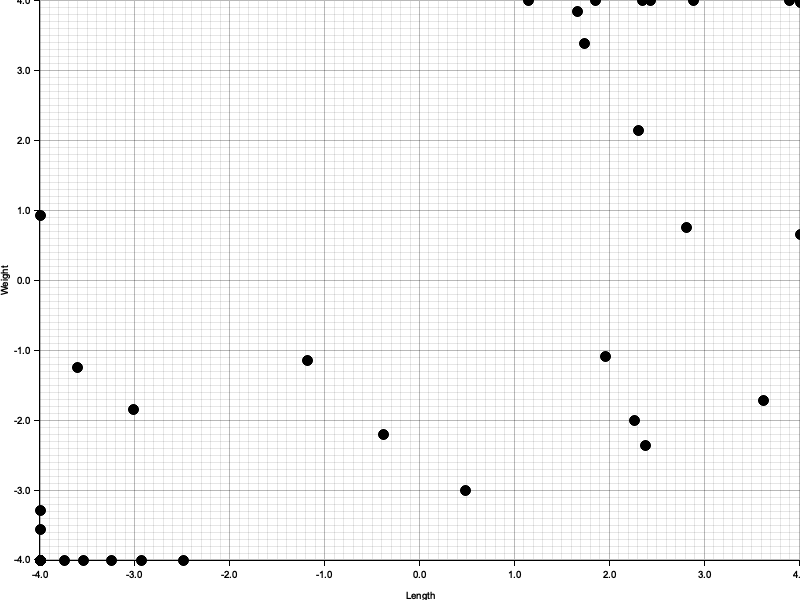
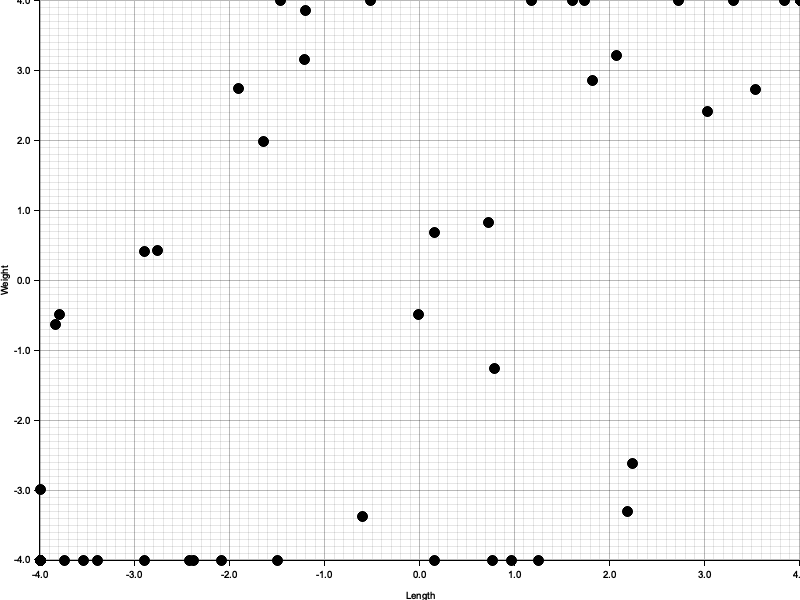
feat"test

diff --git a/src/linear_algebra/ch2.rs b/src/linear_algebra/ch2.rs
@@ -43,4 +43,45 @@ pub fn main() {
     )
     .unwrap();
 
+
+    // Create a drawing area
+    let root = BitMapBackend::new("ch2.png", (800, 600)).into_drawing_area();
+    root.fill(&WHITE).unwrap();
+    let mut chart = ChartBuilder::on(&root)
+    .x_label_area_size(40)
+    .y_label_area_size(40)
+    .build_cartesian_2d(-4.0..4.0, -4.0..4.0)
+    .unwrap();
+   chart
+        .configure_mesh()
+        .x_desc("Length")
+        .y_desc("Weight")
+        .draw()
+        .unwrap();
+    chart
+    .draw_series(
+        points
+            .iter()
+            .map(|(x, y, _)| Circle::new((*x, *y), 5, Into::<ShapeStyle>::into(&BLACK).filled())
+        )
+    )
+    .unwrap();
+
+    
+    let root = BitMapBackend::new("3d-env.png", (640, 480)).into_drawing_area();
+
+    root.fill(&WHITE).unwrap();
+
+    let mut chart = ChartBuilder::on(&root)
+        .margin(20)
+        .caption("Empty 3D Figure", ("sans-serif", 40))
+        .build_cartesian_3d(0.0..1.0, 0.0..1.0, 0.0..1.0)
+        .unwrap();
+    chart.configure_axes().draw().unwrap();
+    chart.draw_series(SurfaceSeries::xoz(
+        (-25..25).map(|v| v as f64 / 10.0), 
+        (-25..25).map(|v| v as f64 / 10.0), 
+        |x:f64,z:f64|(x * x + z * z).cos()).style(&BLUE.mix(0.2))
+    ).unwrap();
+
 }
